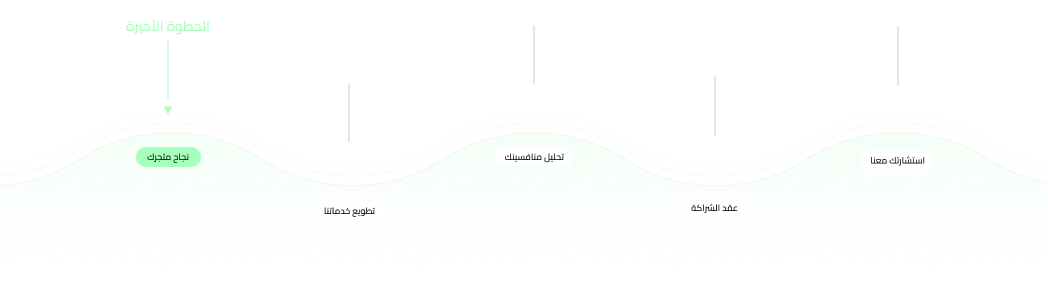
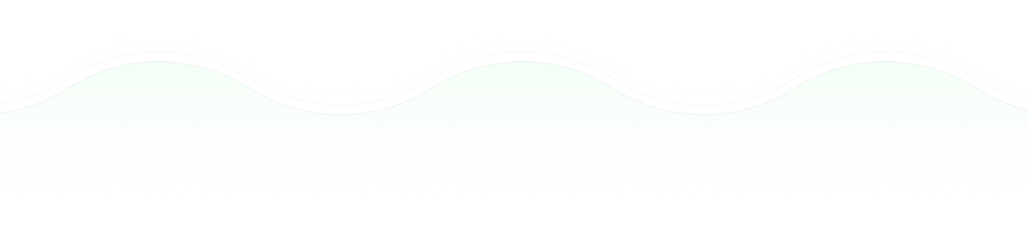
Steps Section Desktop Design.

diff --git a/src/components/steps/StepsContainer.tsx b/src/components/steps/StepsContainer.tsx
@@ -1,16 +1,26 @@
 import { useContext } from "react";
 import waves from "/imgs/steps/waves.png";
 import { WebsiteLangContext } from "../../App";
+import Step from "./Step";
+import { HomePageDataContext } from "../../pages/HomePage";
 
 function StepsContainer() {
   const { websiteLang } = useContext(WebsiteLangContext);
+  const {
+    steps: { steps_list },
+  } = useContext(HomePageDataContext);
 
   return (
-    <div className="grid items-center gap-4 lg:grid-cols-[1fr,auto]">
-      <div className="relative overflow-hidden">
+    <div className="mt-14 grid items-center gap-4 lg:grid-cols-[1fr,auto]">
+      <div className="relative overflow-hidden pt-20">
         <img src={waves} alt="Waves" />
         <span className="absolute -left-40 top-0 block h-full w-52 bg-[#000000b9] blur-[40px]"></span>
         <span className="absolute -right-40 top-0 block h-full w-52 bg-[#000000b9] blur-[40px]"></span>
+        <div className="absolute right-0 top-0 flex w-full justify-evenly px-6 pl-7 [&>*:nth-child(even)]:pt-10">
+          {Object.values(steps_list).map((step, index) => (
+            <Step key={index} data={step} />
+          ))}
+        </div>
       </div>
       <div className="relative">
         <h2 className="gradient-text lead flex-col text-4xl font-black capitalize leading-relaxed max-lg:text-center lg:flex">

diff --git a/src/components/steps/Step.tsx b/src/components/steps/Step.tsx
@@ -1,18 +1,21 @@
-import { IoTriangle } from "react-icons/io5";
+import { GoTriangleDown } from "react-icons/go";
+import { StepType } from "../../types/homepageTypes";
+import { WebsiteLangContext } from "../../App";
+import { useContext } from "react";
 
-function Step() {
+function Step({ data }: { data: StepType }) {
+  const { websiteLang } = useContext(WebsiteLangContext);
+
   return (
-    <div className="flex w-fit flex-col items-center gap-4 text-[8px]">
-      <span className="text-xs">الخطوة الأولى</span>
-      <div className="flex w-fit flex-col items-center gap-2">
-        <span className="block h-10 w-[2px] bg-white"></span>
-        <span>
-          <IoTriangle className="rotate-180" />
-        </span>
+    <div className="flex flex-col items-center gap-2">
+      <p className="text-nowrap text-sm">{data.title[websiteLang]}</p>
+      <div>
+        <div className="h-16 w-[1px] bg-white max-sm:h-10"></div>
       </div>
-      <span className="rounded-full bg-white px-4 py-[2px] text-black">
-        نجاح متحرك
-      </span>
+      <GoTriangleDown className="text-xl" />
+      <p className="mt-8 text-nowrap rounded-full bg-white px-4 py-1 text-xs text-black max-sm:text-[10px]">
+        {data.description[websiteLang]}
+      </p>
     </div>
   );
 }

diff --git a/src/pages/HomePage.tsx b/src/pages/HomePage.tsx
@@ -26,7 +26,7 @@ function HomePage() {
 
   return (
     <HomePageDataContext.Provider value={pageData}>
-      <div
+      {/* <div
         className="bg-no-repeat md:bg-[100%,100%]"
         style={{
           backgroundImage: `url("${document.dir === "rtl" ? heroImageRTL : heroImageLTR}")`,
@@ -35,7 +35,7 @@ function HomePage() {
         <HomeLanding />
         <HomeFeatures />
       </div>
-      <MarketingSolutions />
+      <MarketingSolutions /> */}
       <StepsSection />
       <div className="relative">
         <span className="absolute left-0 top-1/2 -z-10 h-[334px] max-h-[50vh] w-[334px] max-w-[35vw] -translate-y-1/2 bg-background blur-[334px]"></span>

diff --git a/src/types/homepageTypes.ts b/src/types/homepageTypes.ts
@@ -43,6 +43,19 @@ export interface FeaturesType {
   special_feature: FeatureItemType;
 }
 
+export interface StepsType {
+  steps_list: {
+    [key: string]: {
+      title: MultiLangTextType;
+      description: MultiLangTextType;
+    };
+  };
+}
+export interface StepType {
+  title: MultiLangTextType;
+  description: MultiLangTextType;
+}
+
 export interface CustomerImageType {
   url: string;
   alt: string;
@@ -57,4 +70,5 @@ export interface homePageContentType {
   marketing_solutions: MarketingSolutionsType;
   features: FeaturesType;
   our_customers: OurCustomersType;
+  steps: StepsType;
 }
